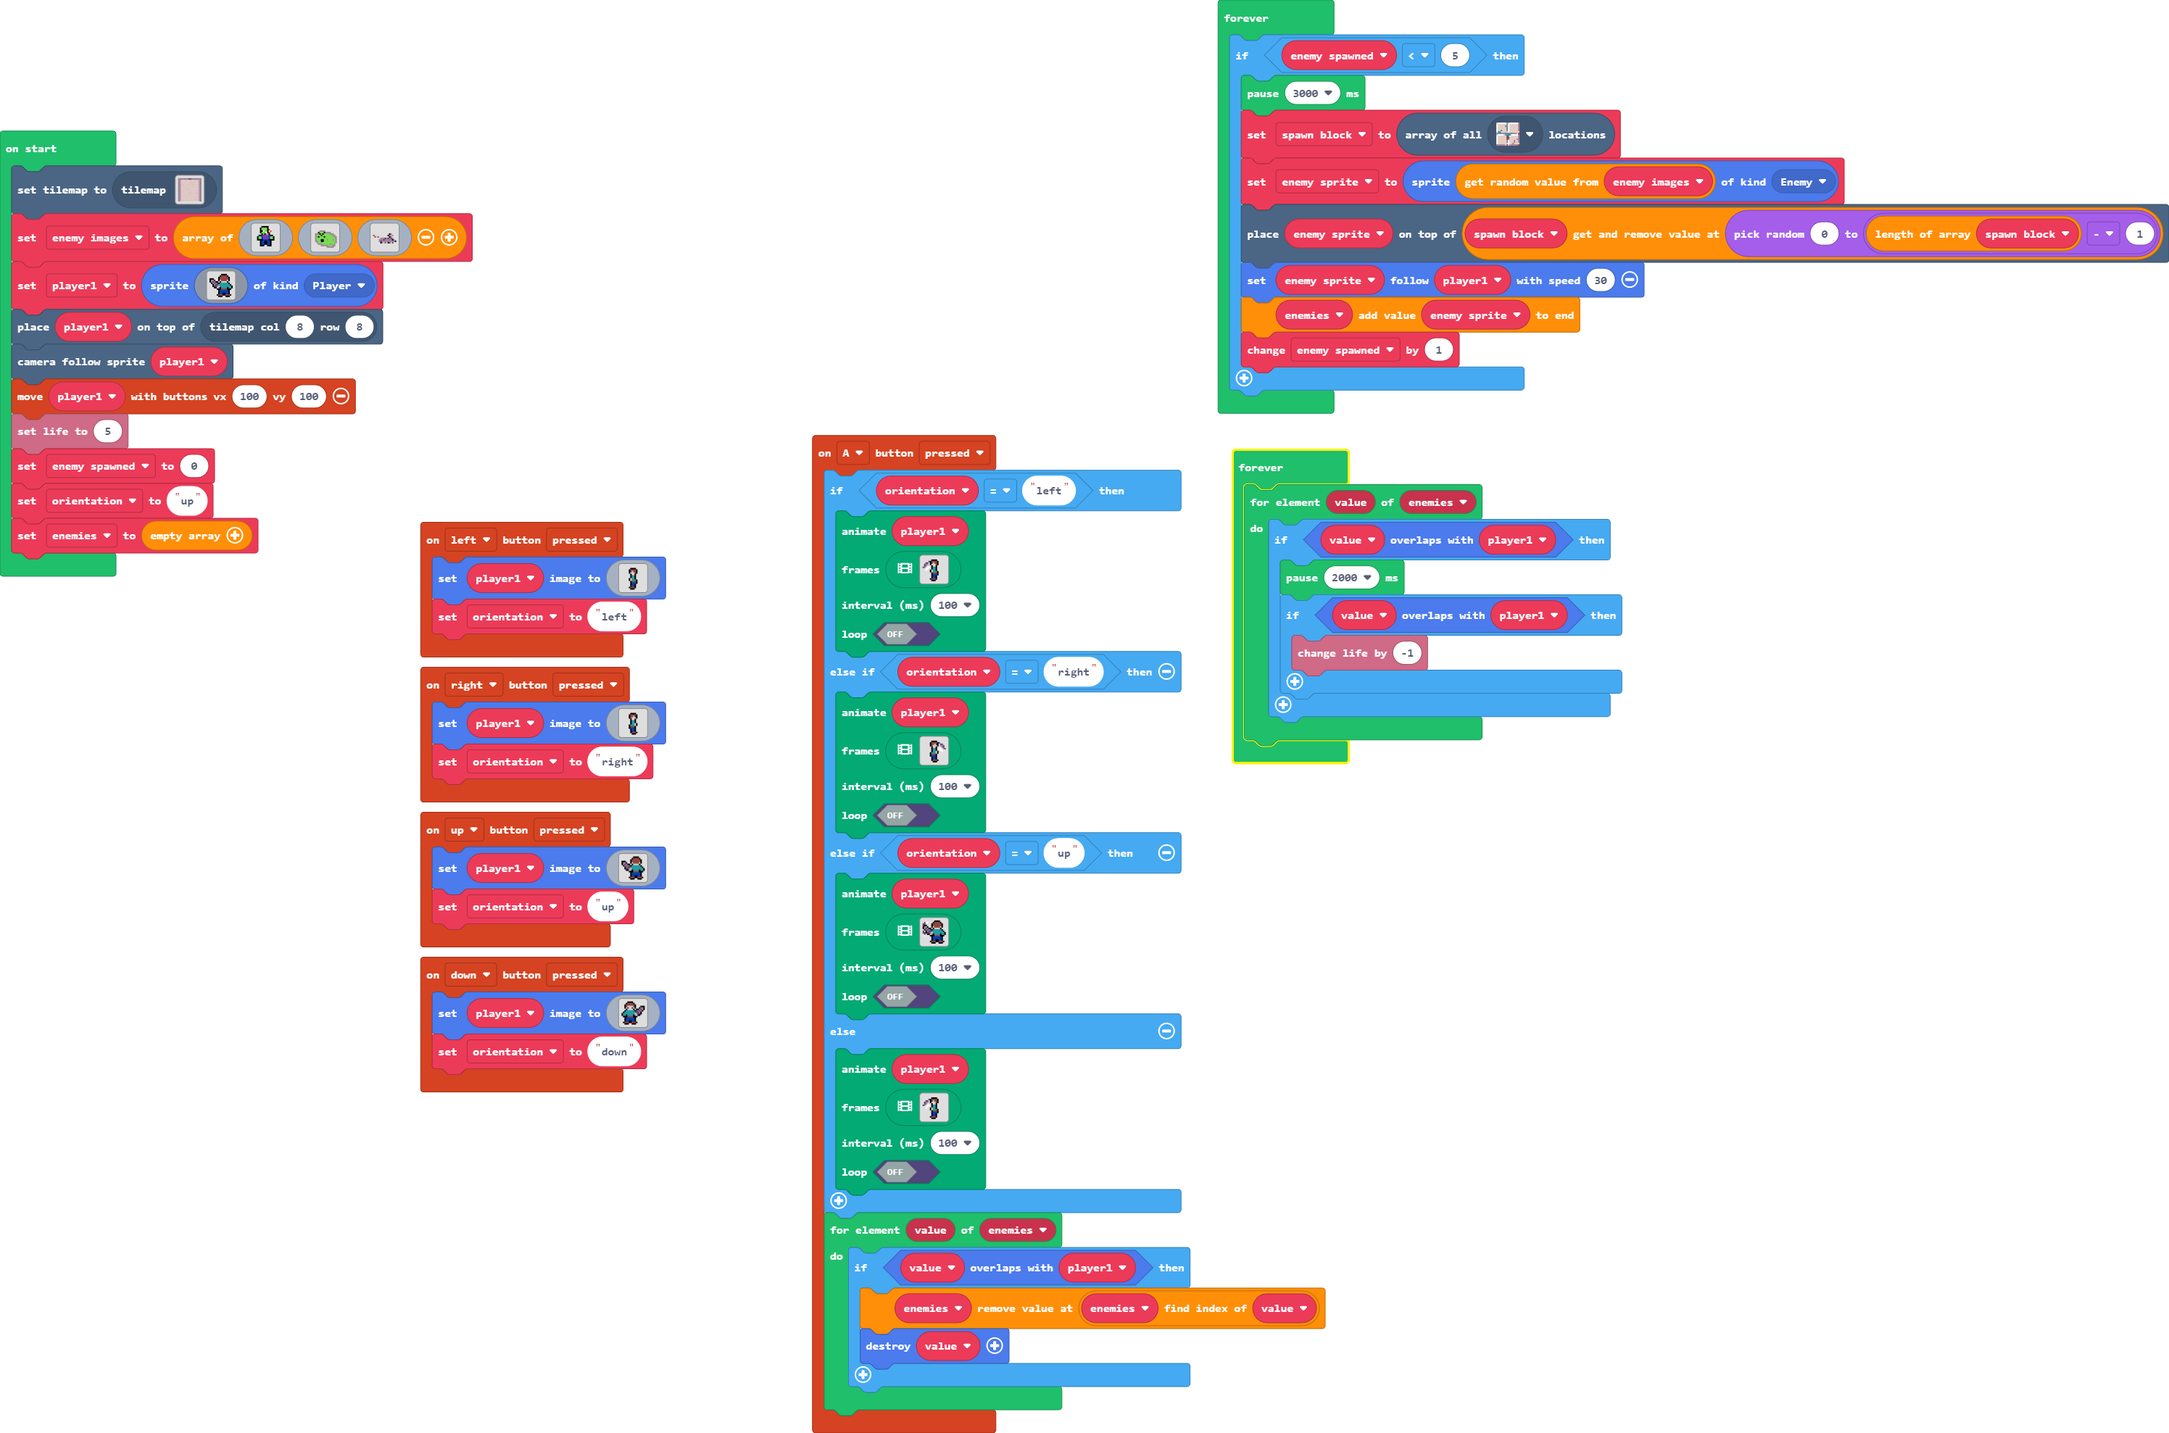
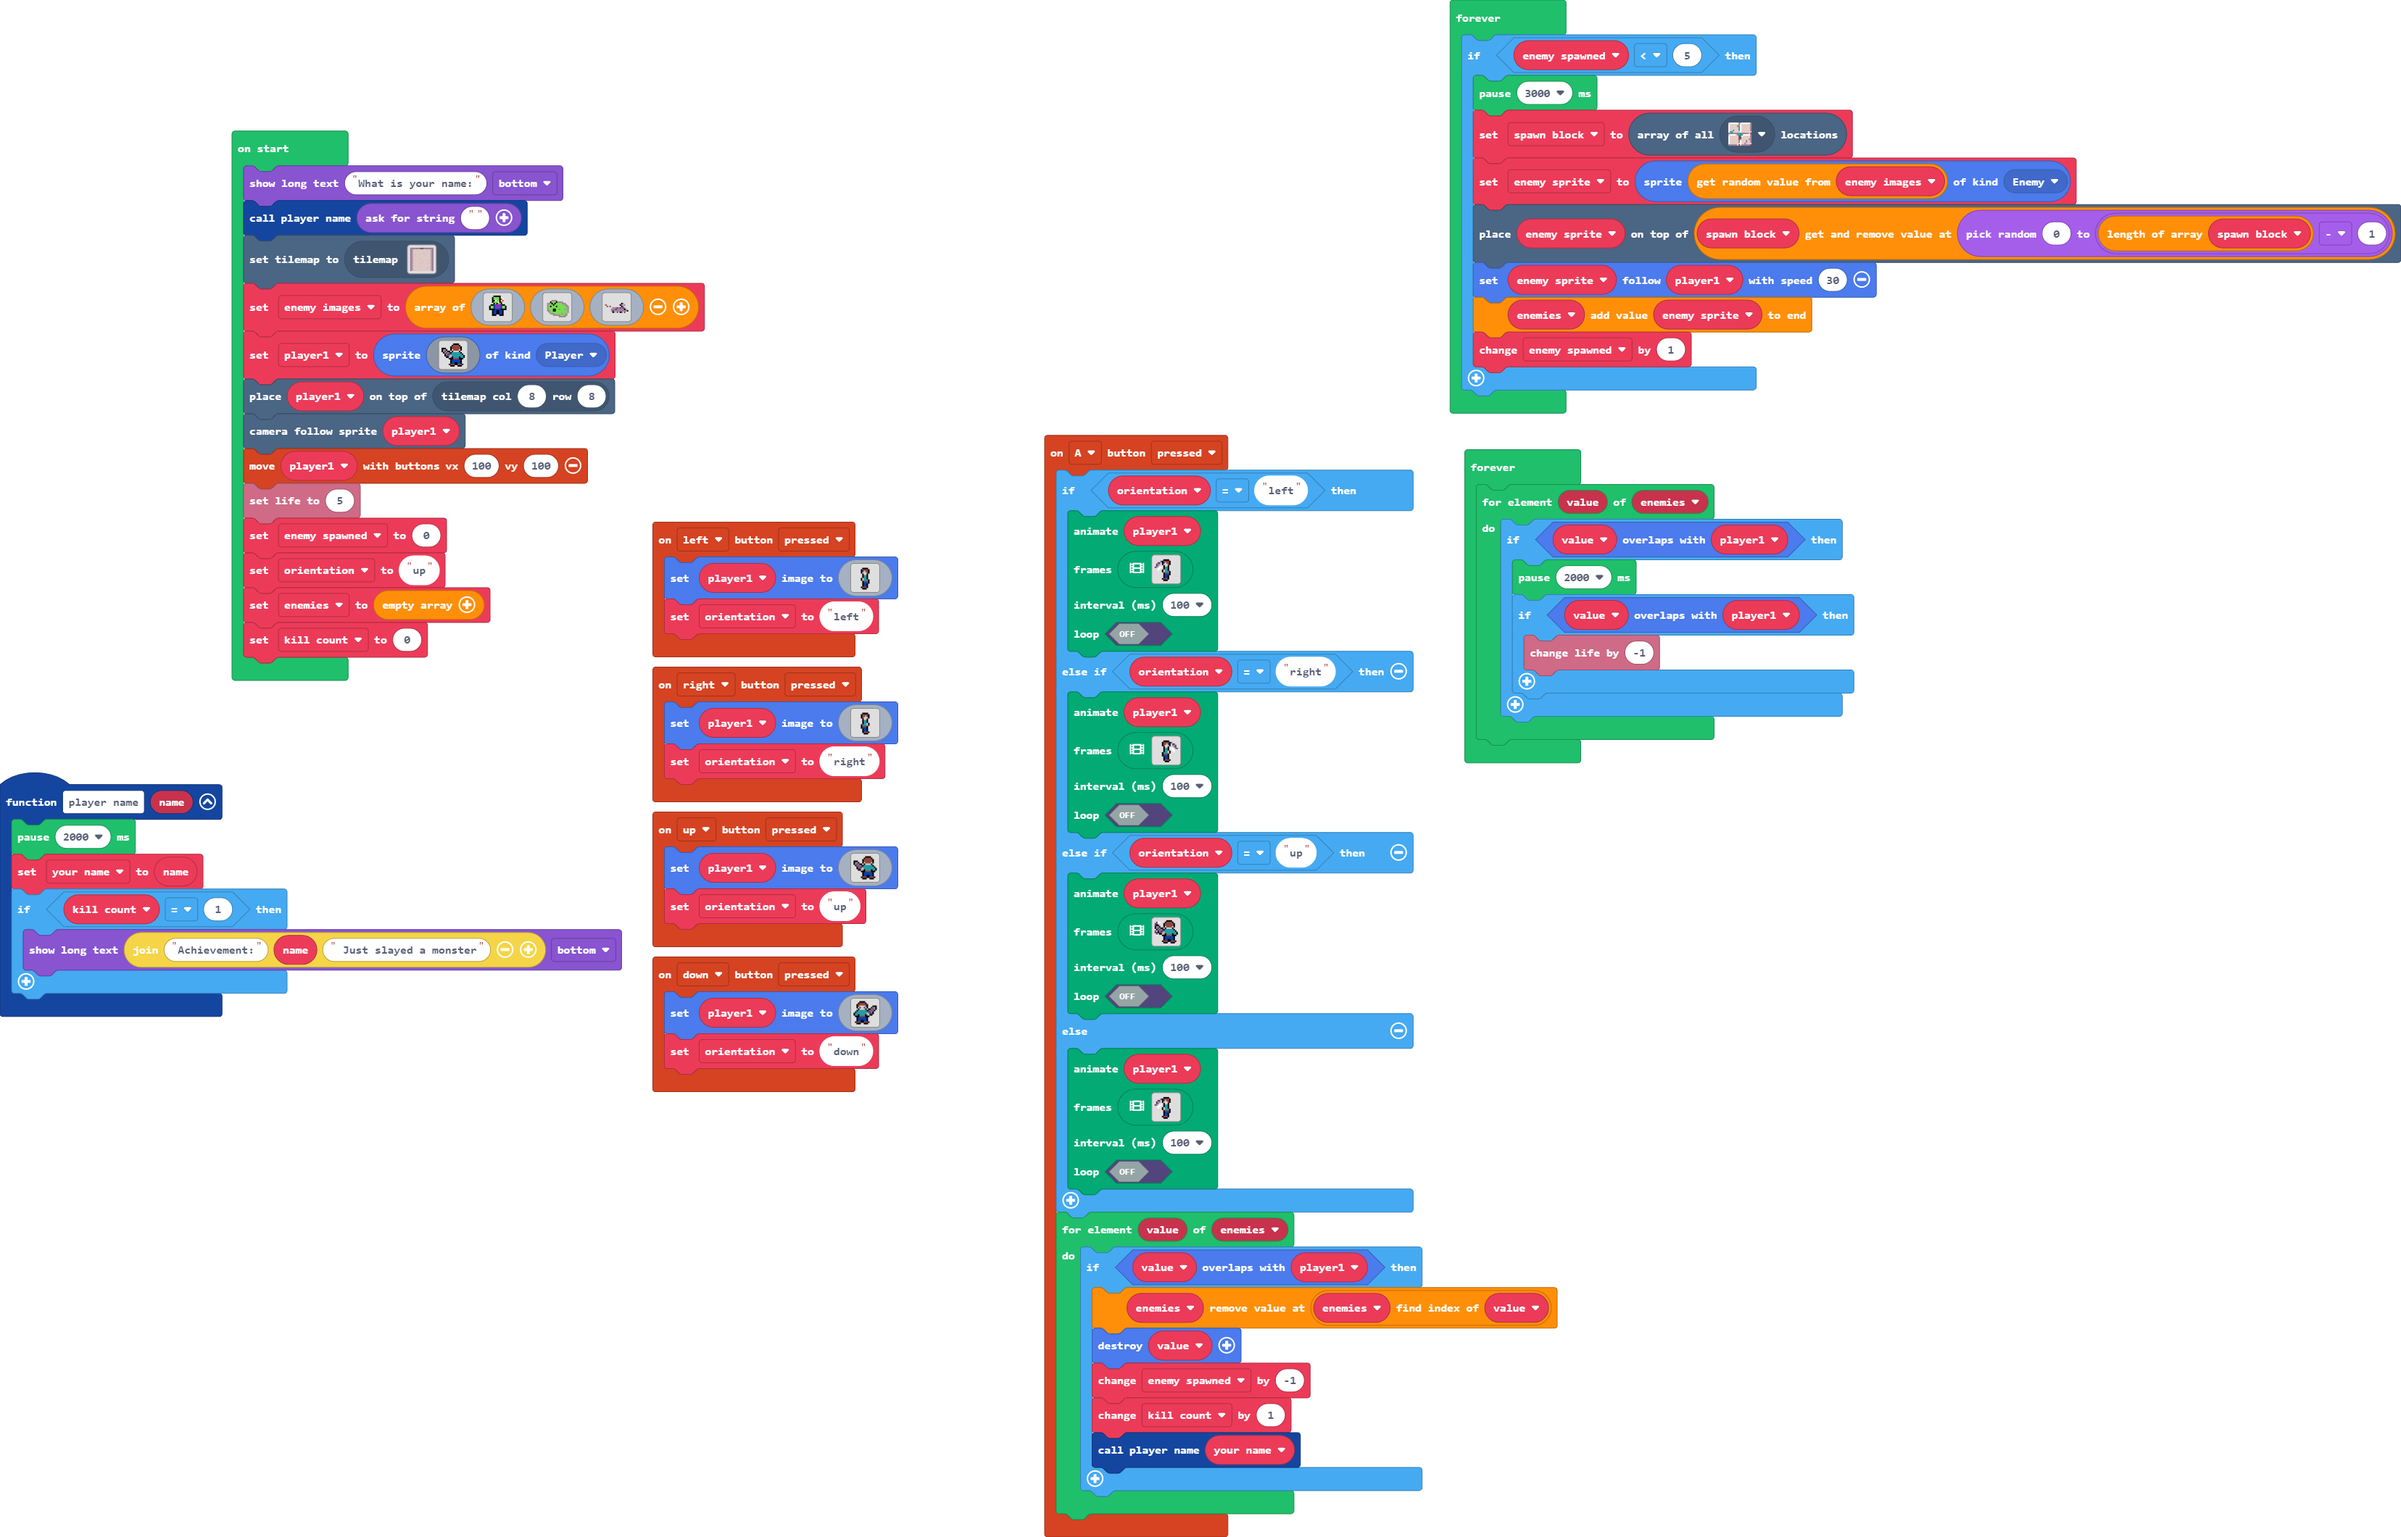
Update main.blocks, main.ts

diff --git a/main.ts b/main.ts
@@ -240,9 +240,19 @@ controller.A.onEvent(ControllerButtonEvent.Pressed, function () {
         if (value.overlapsWith(player1)) {
             enemies.removeAt(enemies.indexOf(value))
             sprites.destroy(value)
+            enemy_spawned += -1
+            kill_count += 1
+            player_name(your_name)
         }
     }
 })
+function player_name (name: string) {
+    pause(2000)
+    your_name = name
+    if (kill_count == 1) {
+        game.showLongText("Achievement:" + name + " Just slayed a monster", DialogLayout.Bottom)
+    }
+}
 controller.left.onEvent(ControllerButtonEvent.Pressed, function () {
     player1.setImage(img`
         . . . . . . . . . . . . . . . . 
@@ -308,9 +318,13 @@ controller.down.onEvent(ControllerButtonEvent.Pressed, function () {
 })
 let enemy_sprite: Sprite = null
 let spawn_block: tiles.Location[] = []
+let your_name = ""
+let kill_count = 0
 let enemies: Sprite[] = []
 let orientation = ""
 let player1: Sprite = null
+game.showLongText("What is your name:", DialogLayout.Bottom)
+player_name(game.askForString(""))
 tiles.setCurrentTilemap(tilemap`level`)
 let enemy_images = [img`
     . . . . . f f f f f . . . . . . 
@@ -372,6 +386,7 @@ info.setLife(5)
 let enemy_spawned = 0
 orientation = "up"
 enemies = []
+kill_count = 0
 forever(function () {
     if (enemy_spawned < 5) {
         pause(3000)
